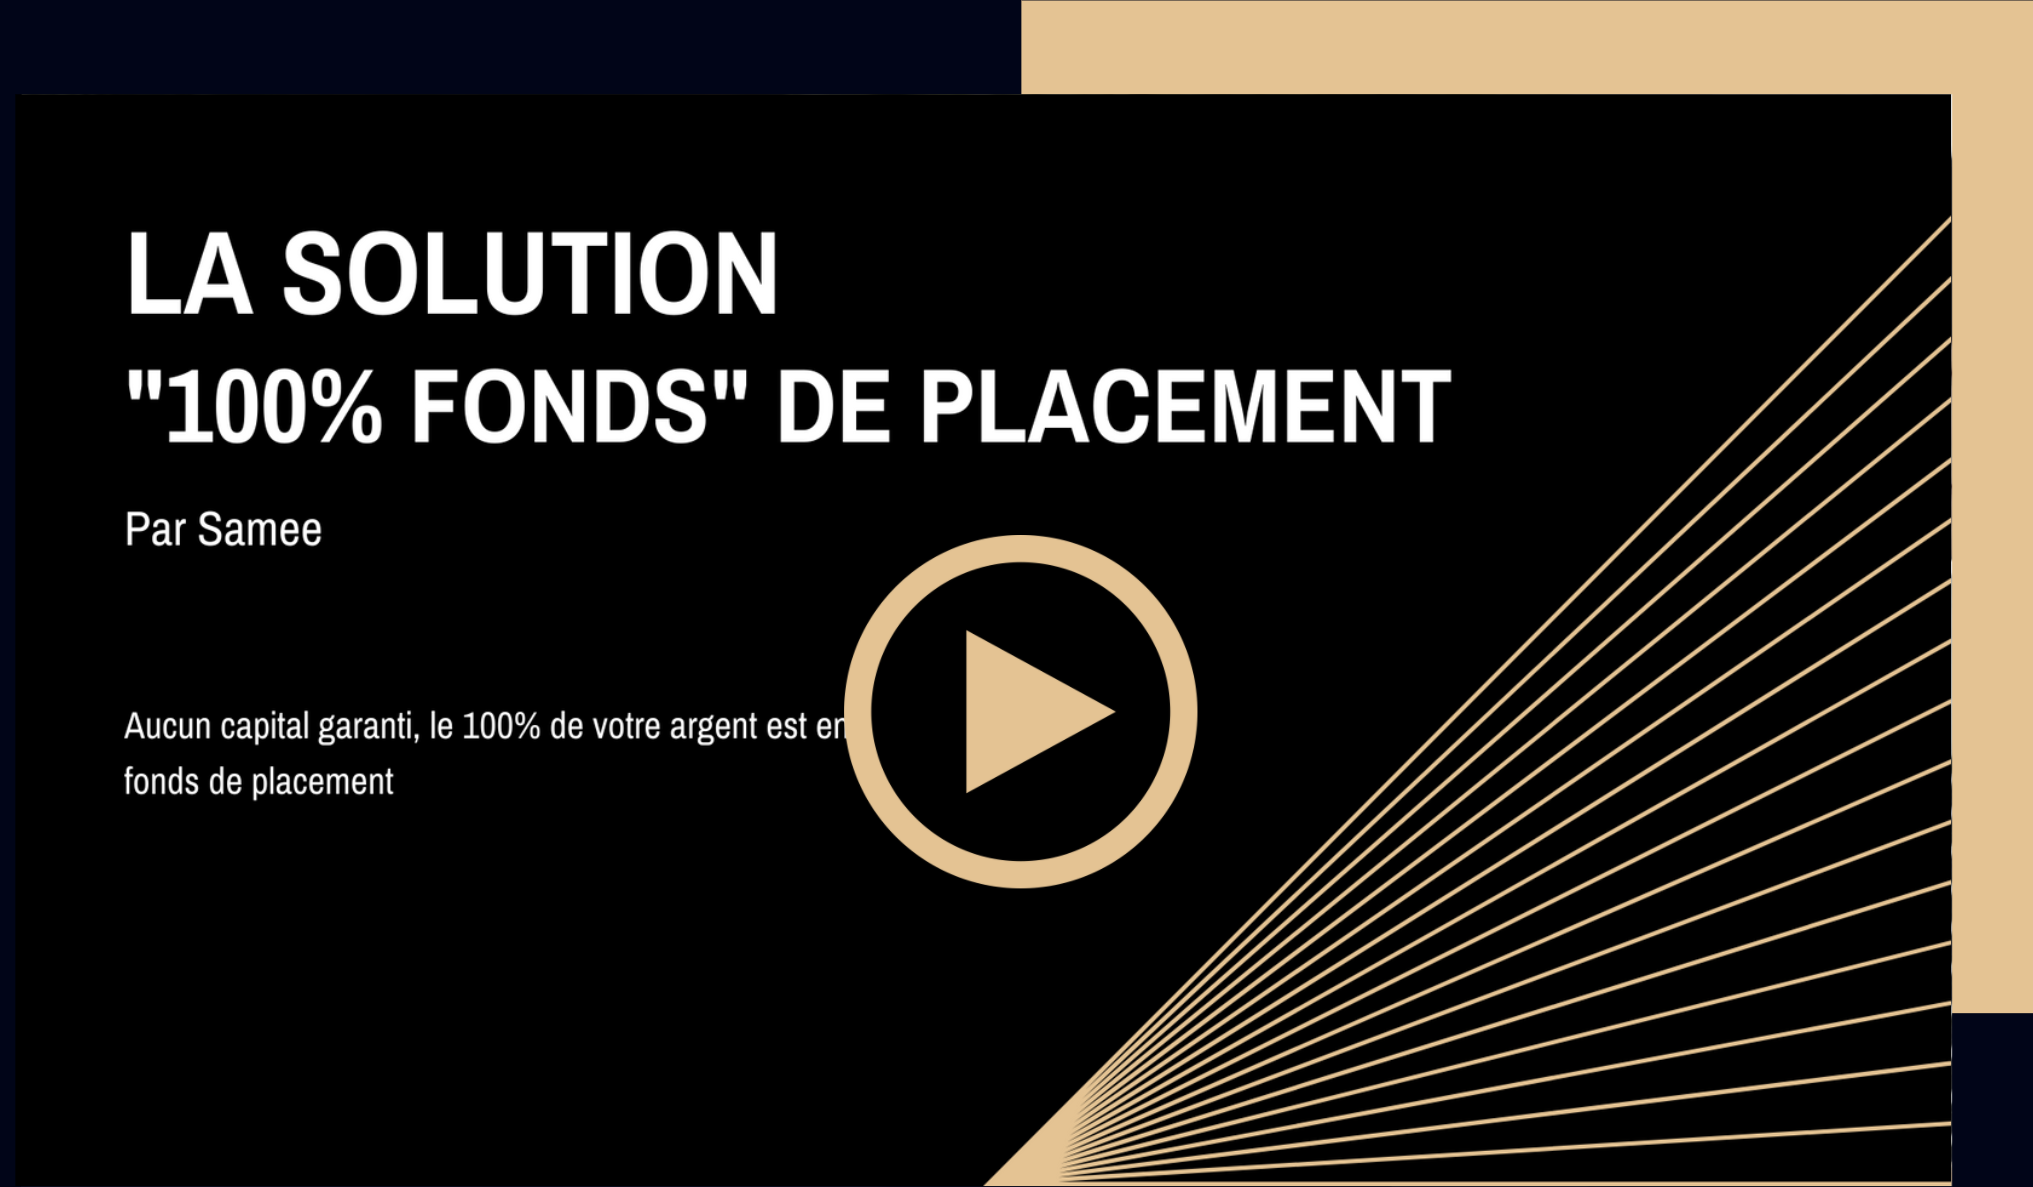
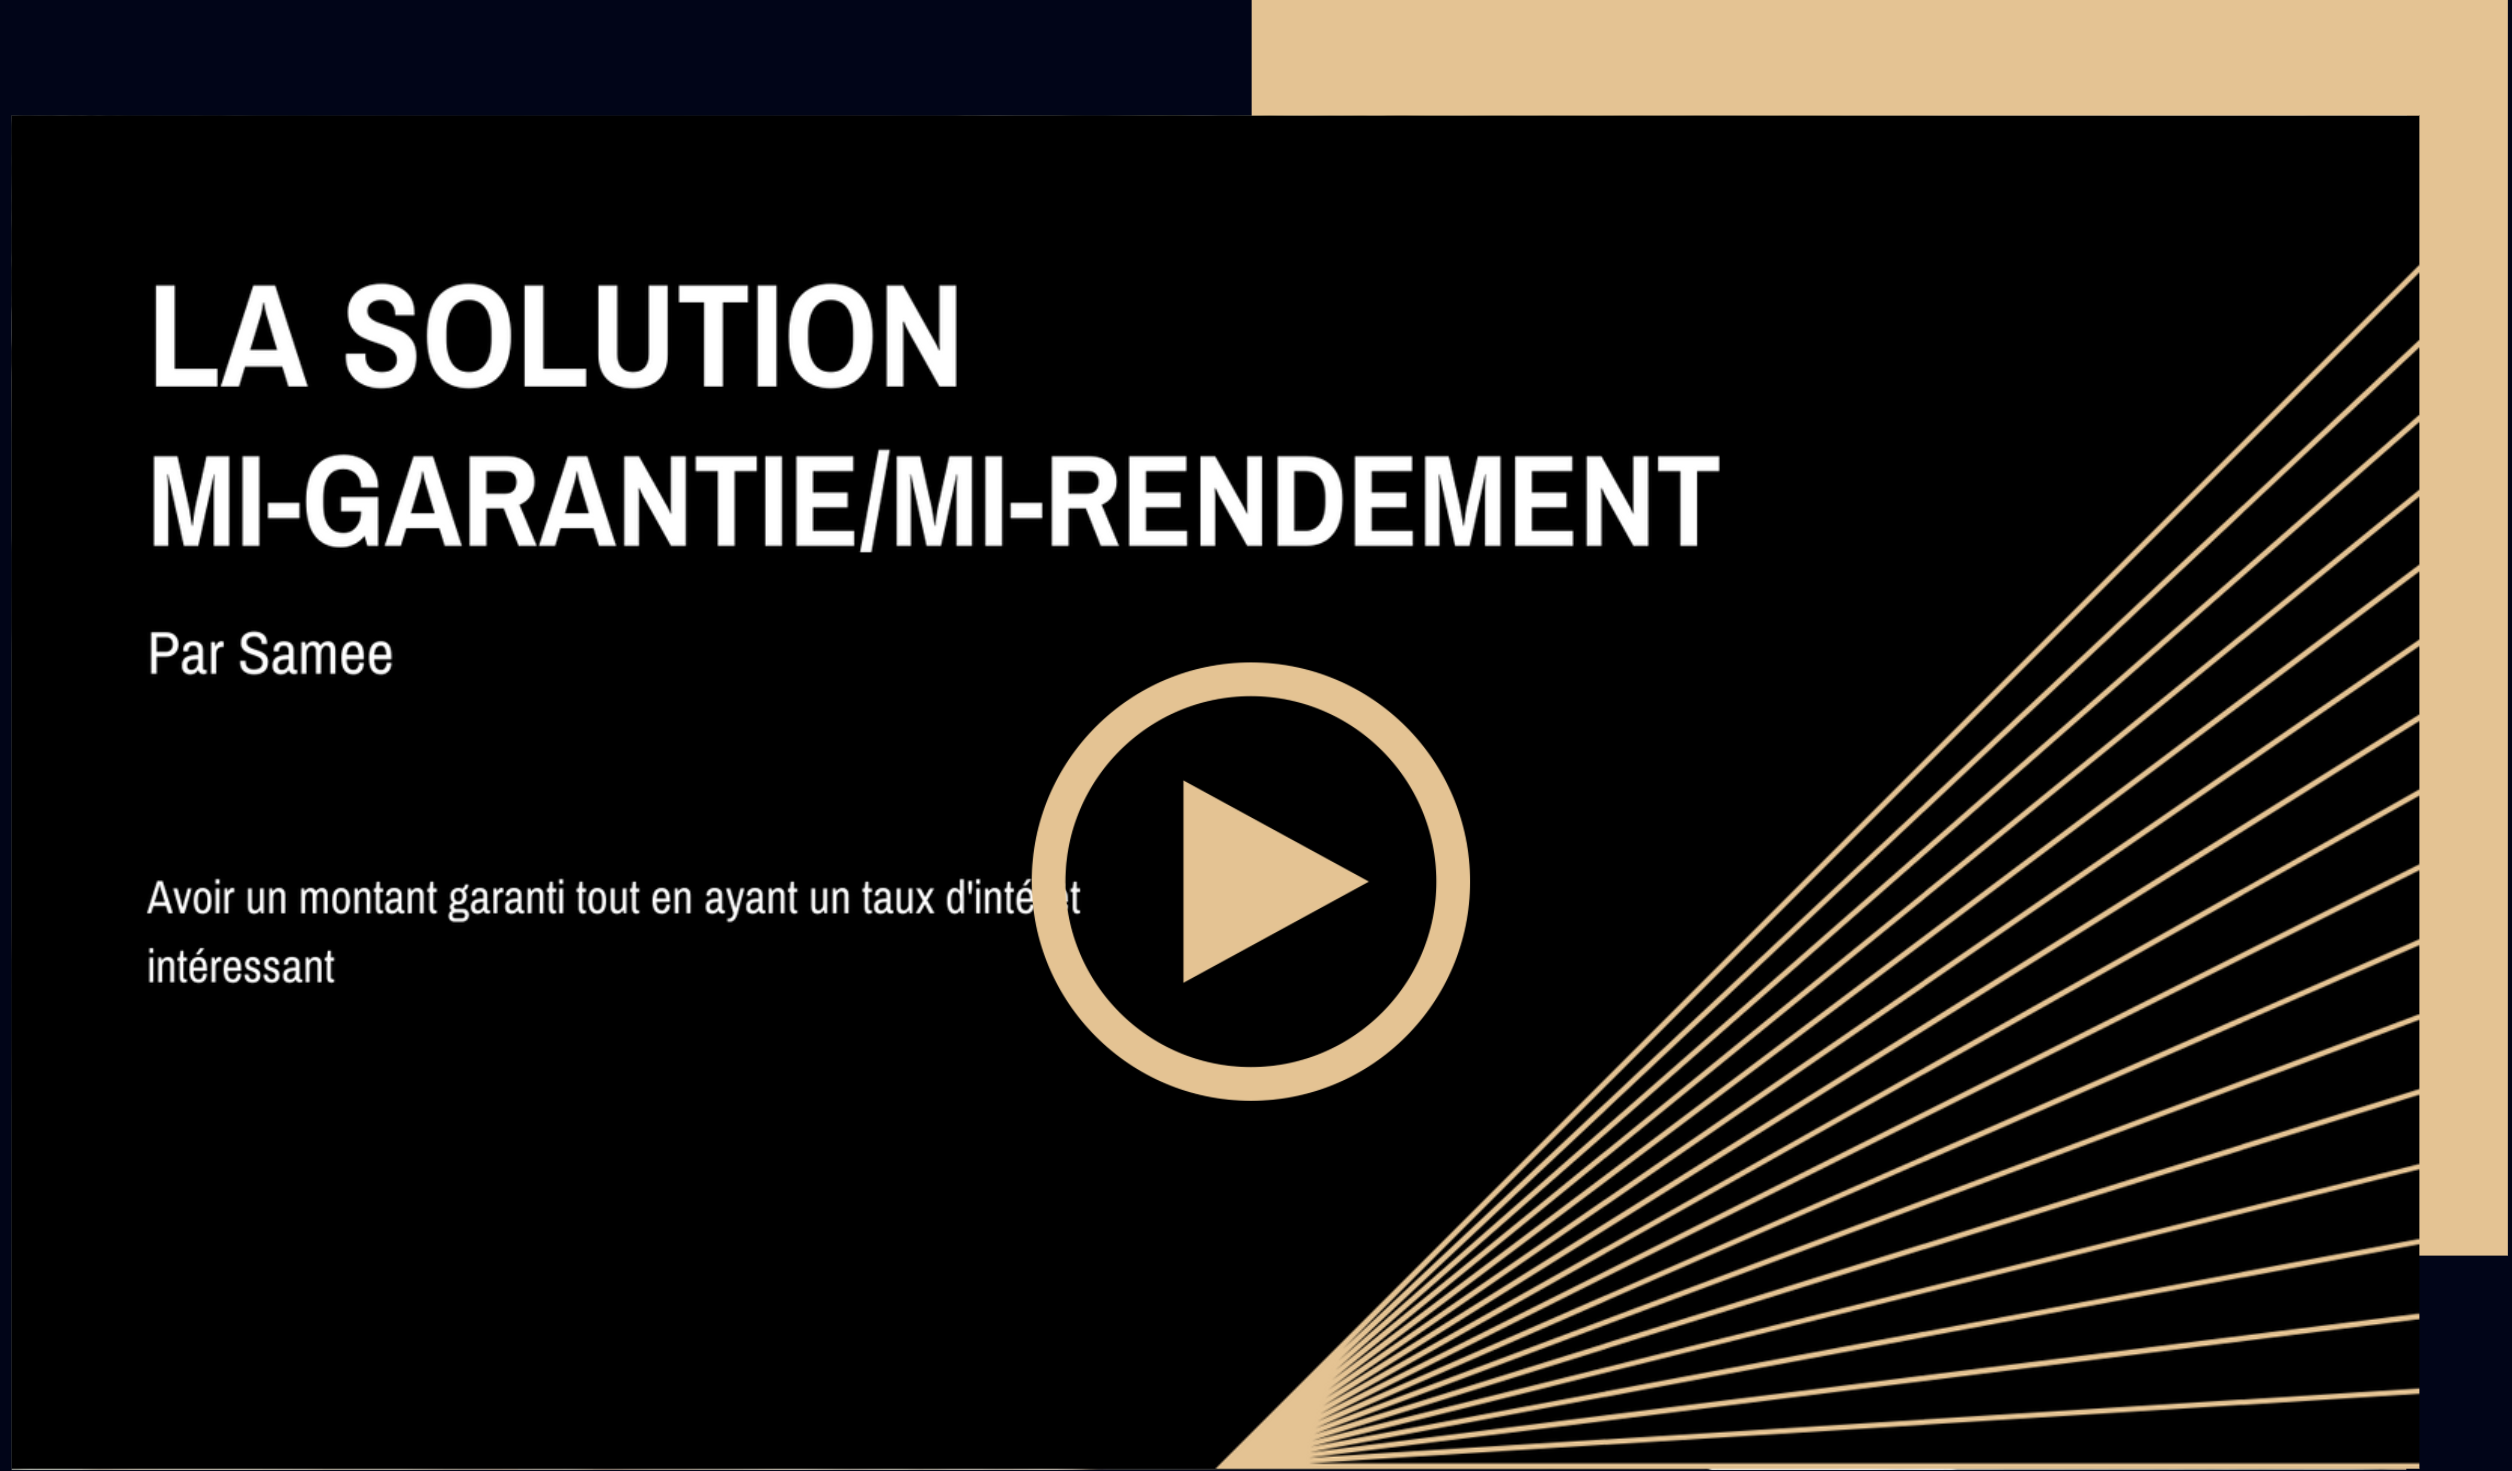
responsive

diff --git a/src/components/UserContactInfo/UserContactInfo.tsx b/src/components/UserContactInfo/UserContactInfo.tsx
@@ -133,10 +133,14 @@ export default function UserContactInfo(): ReactElement {
         .post('/add', userData)
         .then(function (response) {
           console.log(response);
-          const clientId = response.data;
-          setClient(clientId);
-          localStorage.setItem('clientId', JSON.stringify(clientId));
-          history.push('/confirm-code');
+          if (response.status === 404) {
+            setError('Ce numéro existe déjà');
+          } else {
+            const clientId = response.data;
+            setClient(clientId);
+            localStorage.setItem('clientId', JSON.stringify(clientId));
+            history.push('/confirm-code');
+          }
         })
         .catch(function (error) {
           console.log(error);
@@ -184,7 +188,7 @@ export default function UserContactInfo(): ReactElement {
               className="input_field"
               international={true}
               withCountryCallingCode={true}
-              country="CH"
+              country="UA"
               value={phone}
               maxLength={16}
               onChange={handlePhone}

diff --git a/src/components/SavingGuaranteeInterestCalc/SavingGuaranteeInterestCalc.tsx b/src/components/SavingGuaranteeInterestCalc/SavingGuaranteeInterestCalc.tsx
@@ -12,7 +12,7 @@ import {ProgressContext} from '../../context/progressContext';
 const useStyles = makeStyles({
   root: {
     color: 'white !important',
-    fontSize: '24px !important',
+    fontSize: '1em !important',
     fontFamily: '"Archivo Narrow" !important',
     borderBottom: '1px solid white !important',
   },
@@ -284,7 +284,7 @@ export default function SavingGuaranteeInterestCalc(): ReactElement {
               Vous pouvez essayer avec un autre montant
               <div className="wrapper">
                 d'épargne
-                <FormControl variant="standard" sx={{m: 1, minWidth: 120}}>
+                <FormControl variant="standard" sx={{m: 1, minWidth: 80}}>
                   <Select
                     labelId="demo-simple-select-standard-label"
                     id="demo-simple-select-standard"

diff --git a/src/components/SavingGuaranteeInterestCalc/savingGuaranteeInterestCalc.css b/src/components/SavingGuaranteeInterestCalc/savingGuaranteeInterestCalc.css
@@ -32,17 +32,6 @@
   font-size: 40px;
 }
 
-/* .employee_salary {
-  width: 100px;
-  height: 40px;
-} */
-
-/*
-.saving_interest_calc_list-text {
-  display: flex;
-  align-items: center;
-} */
-
 .button_recalc {
   padding: 10px 25px;
   cursor: pointer;
@@ -82,7 +71,7 @@
 
   .countup_text {
     color: #eac28c;
-    font-size: 30px;
+    font-size: 35px;
   }
 }
 
@@ -92,7 +81,11 @@
     flex-wrap: wrap;
     align-items: center;
     justify-content: space-between;
-    margin-top: 50px;
+
+  }
+
+  .saving_interest_calc-final-calc {
+    margin: 15px auto;
   }
 
   .saving_interest_calc_list-text {
@@ -128,6 +121,6 @@
 
   .countup_text {
     color: #eac28c;
-    font-size: 20px;
+    font-size: 24px;
   }
 }

diff --git a/src/components/HalfGuaranteedSolution/HalfGuaranteedSolution.tsx b/src/components/HalfGuaranteedSolution/HalfGuaranteedSolution.tsx
@@ -91,11 +91,11 @@ export default function HalfGuaranteedSolution(): ReactElement {
                 | undefined,
             ) => (
               <>
-                <button className="close" onClick={close}>
+                <button className="close-video" onClick={close}>
                   X
                 </button>
                 <div className="pop_up_video">
-                  <video width="1000" height="auto" autoPlay controls>
+                  <video className="video_content" autoPlay controls>
                     <source
                       src="video/video2.mp4"
                       type='video/mp4; codecs="avc1.42E01E, mp4a.40.2"'

diff --git a/src/components/HalfGuaranteedSolution/halfGuaranteedSolution.css b/src/components/HalfGuaranteedSolution/halfGuaranteedSolution.css
@@ -28,7 +28,35 @@
 }
 
 @media (max-width: 425px) {
+  .video_img {
+    width: 300px;
+    height: auto;
+  }
+
   .half_guaranteed_solution {
     display: block;
+  }
+
+  .half_guaranteed_solution_list-item::after {
+    height: 10px;
+    width: 10px;
+    content: url(/src/image/arrow-down-l.svg);
+    background-size: contain;
+    padding-left: 6px;
+    margin-top: 1px;
+  }
+
+  .half_guaranteed_solution_list {
+    margin: 50px 0;
+  }
+
+  .close-video {
+    height: 30px;
+    width: 30px;
+  }
+
+  .video_content {
+    width: 340px;
+    height: auto;
   }
 }

diff --git a/src/components/GuaranteedSavingSolution/guaranteedSavingSolution.css b/src/components/GuaranteedSavingSolution/guaranteedSavingSolution.css
@@ -13,10 +13,9 @@
   width: 40px;
   border-radius: 20px;
   background-color: transparent;
-  border: 1 px solid #eac28c;
+  border: 1px solid #eac28c;
   color: #eac28c;
   z-index: 1000;
-  border: 1px solid;
 }
 
 .video_content {
@@ -87,13 +86,11 @@
   }
 
   .video_button_next {
-
     height: auto;
     font-size: 18px;
   }
 
   .video_button_pass {
-
     height: auto;
     font-size: 18px;
   }
